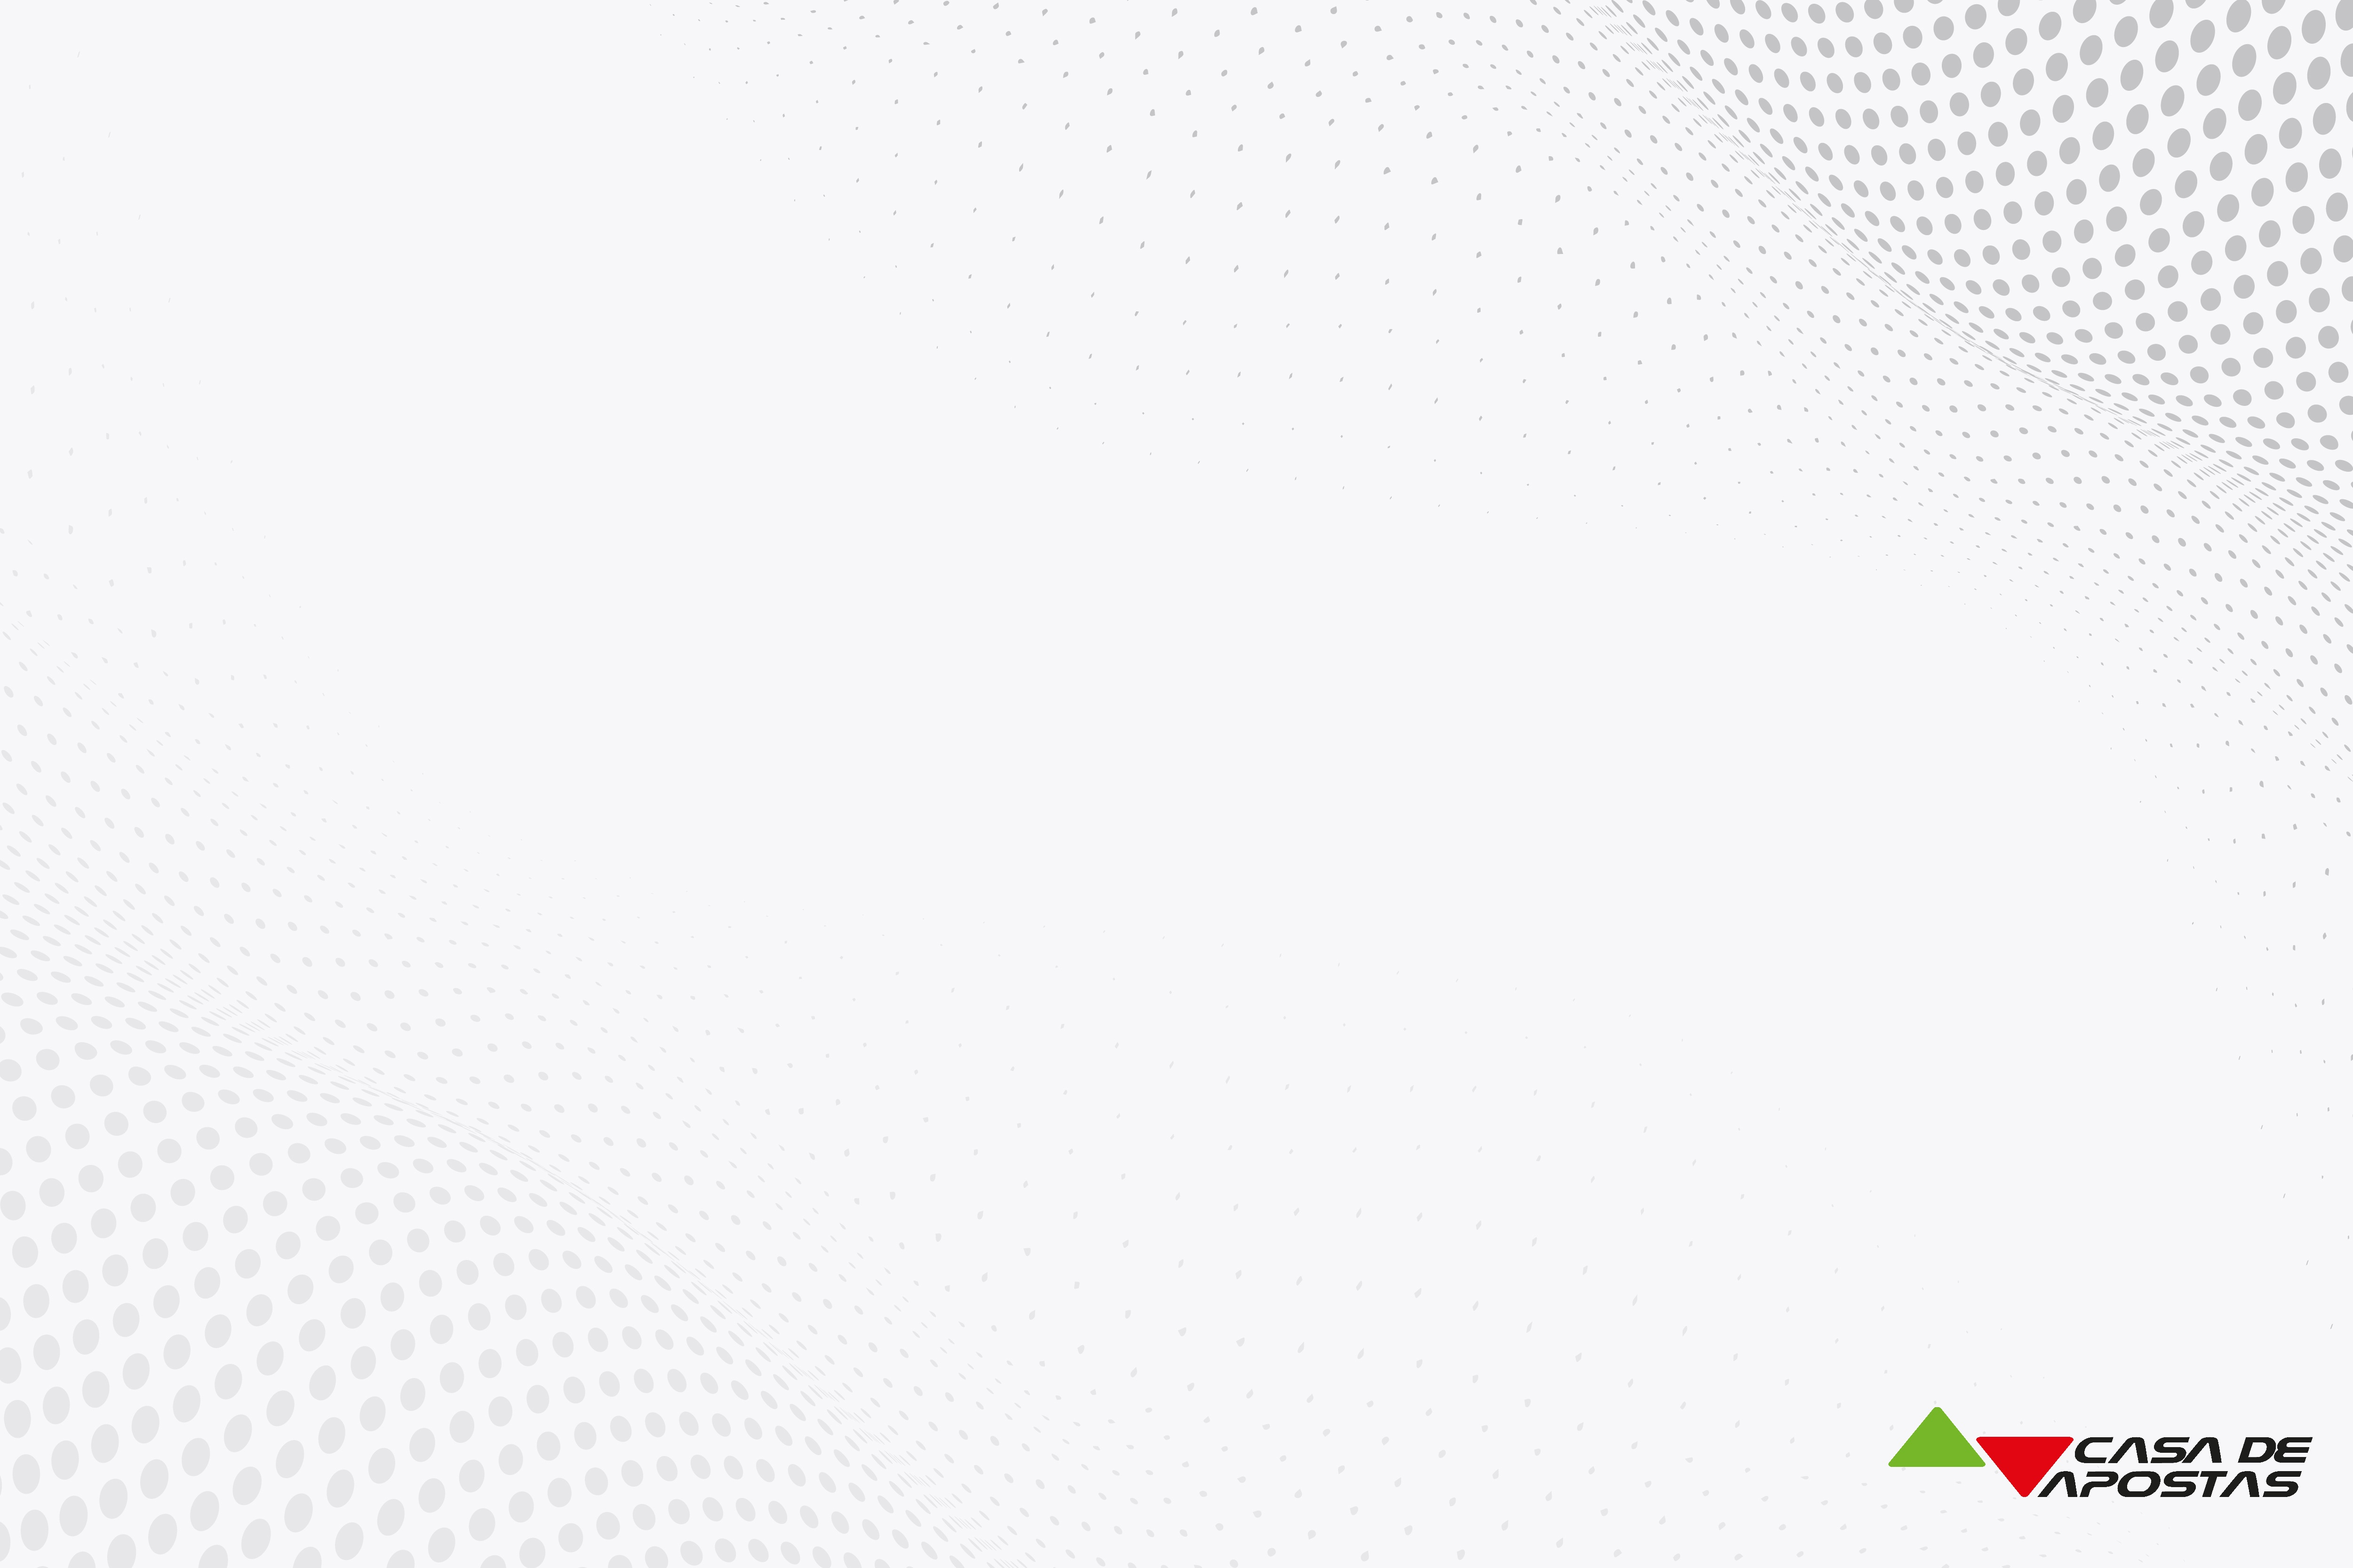
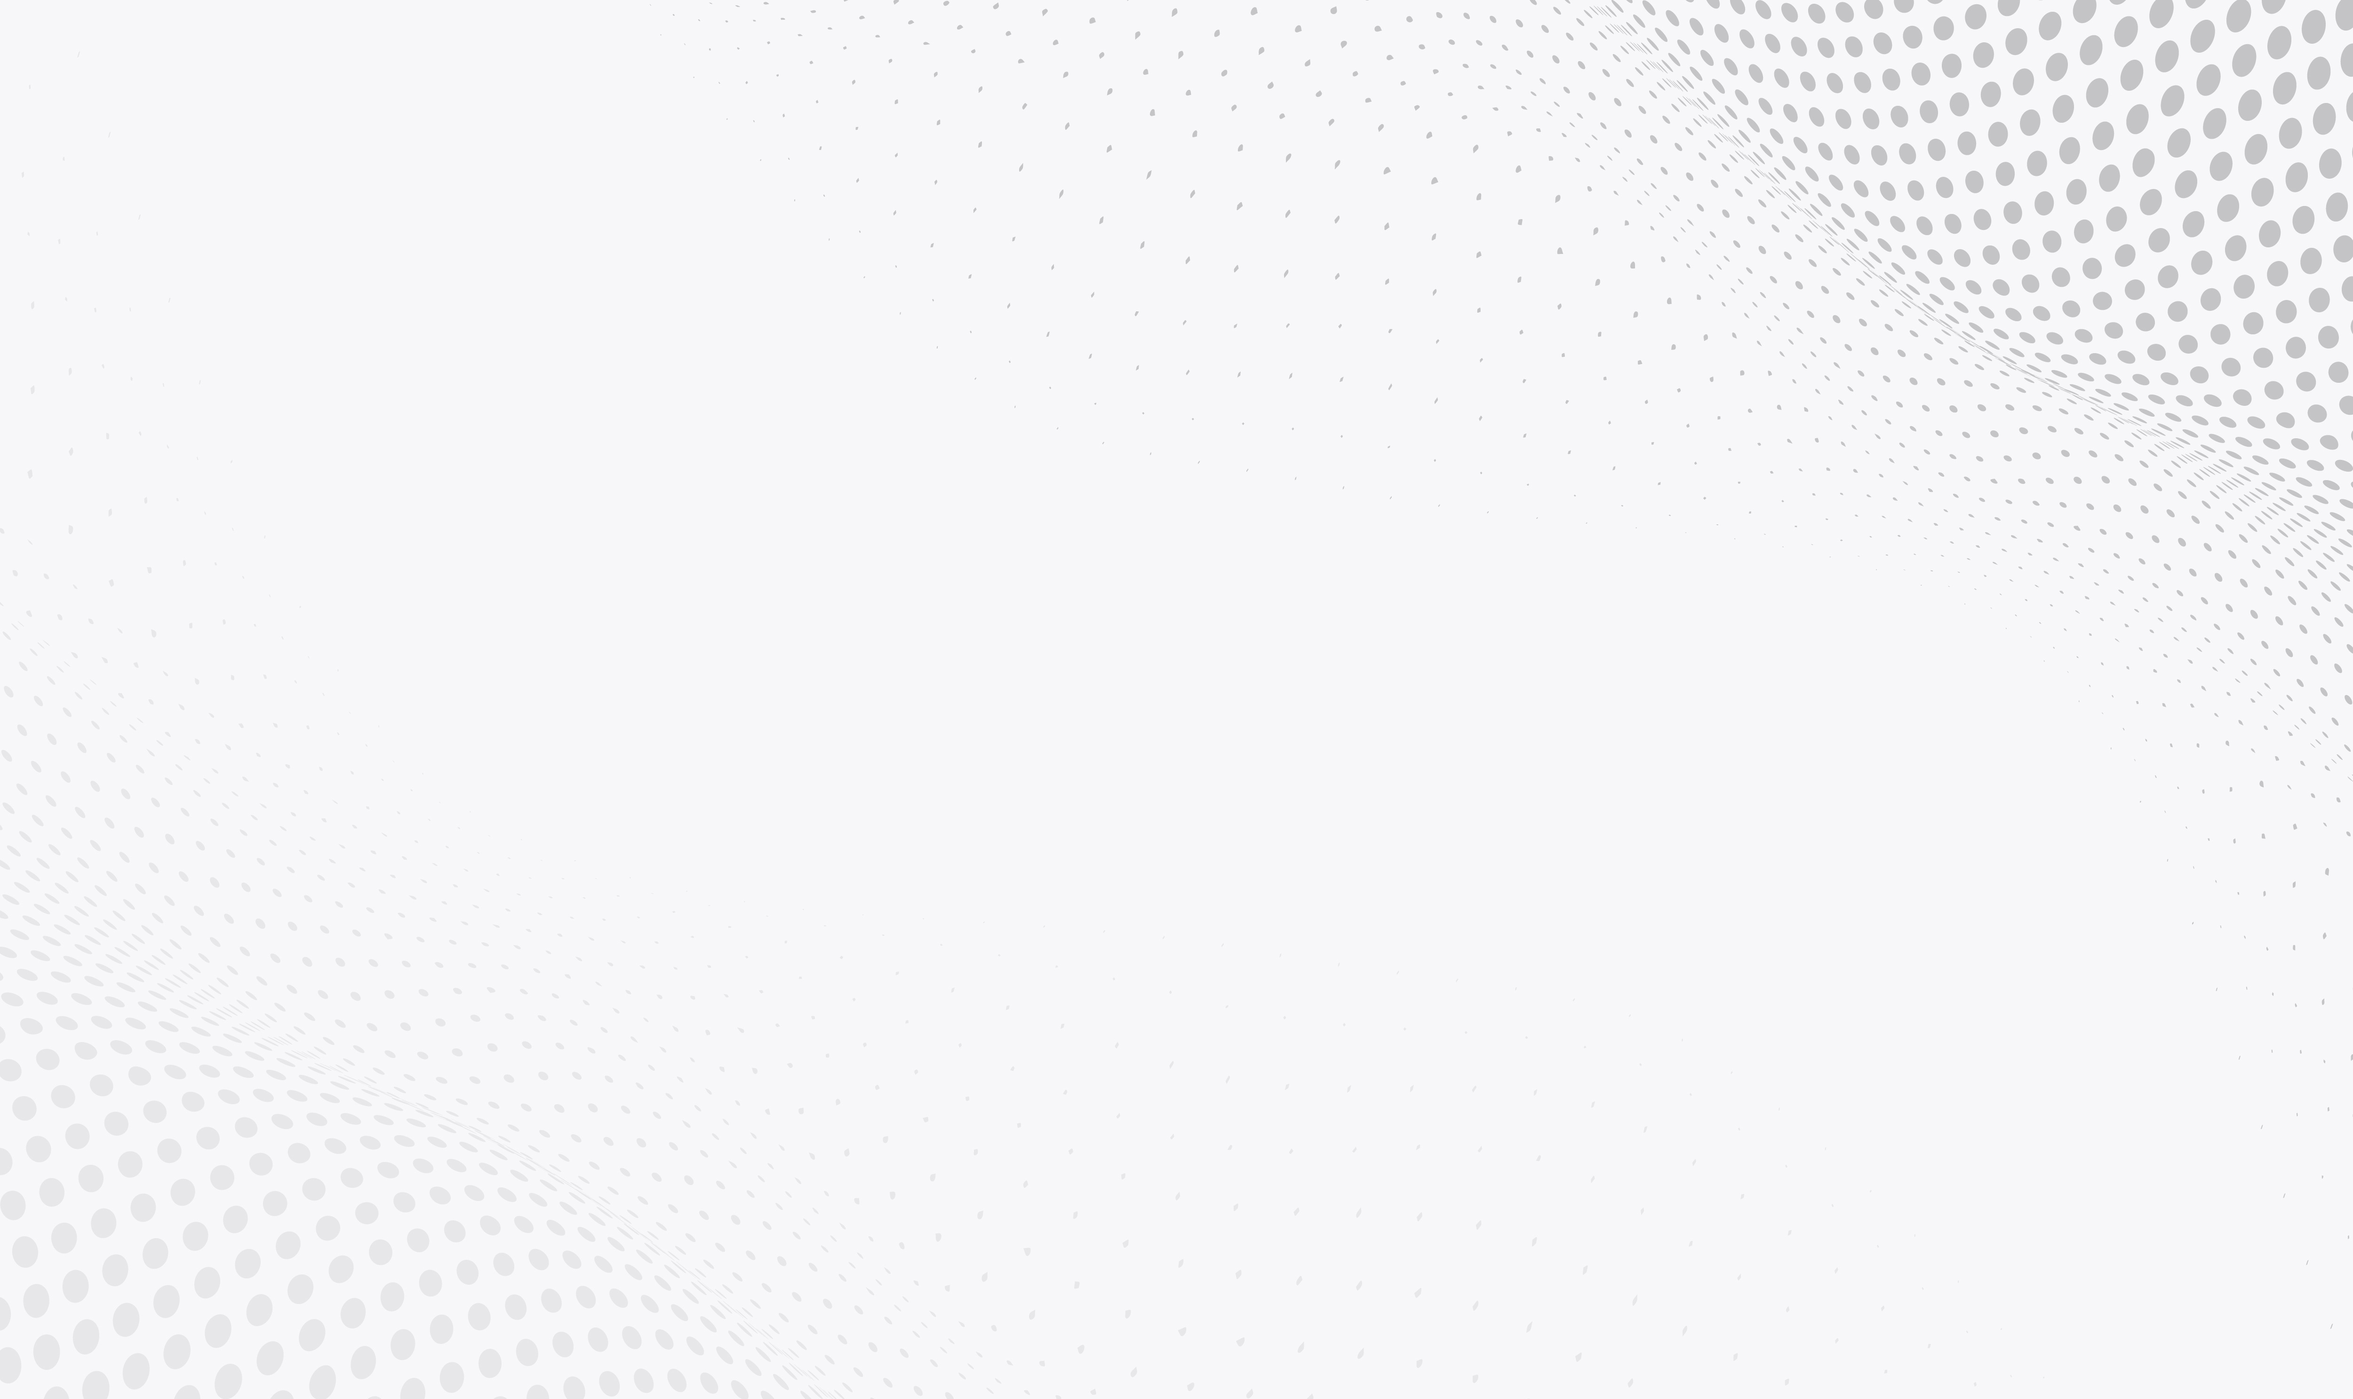
remoção de icones para video

Changed region(s): [[0.6551, 0.0, 1.0, 0.5257], [0.811, 0.8968, 0.9982, 0.9587]]

diff --git a/src/App.tsx b/src/App.tsx
@@ -4,8 +4,7 @@ import Auth from './components/Auth/Auth';
 import ClientList from './components/Clientes/ClientList';
 import ContactList from './components/Contatos/ContactList';
 import Reports from './components/Relatorio/Reports';
-import { Users, UserCircle, FileText, LogOut } from 'lucide-react';
-import logo from './assets/logo.png';
+import { Users, UserCircle, FileText, LogOut, Calendar } from 'lucide-react';
 
 type TabType = 'clients' | 'contacts' | 'reports';
 
@@ -34,7 +33,9 @@ function Dashboard() {
           <div className="flex items-center justify-between h-16">
             <div className="flex items-center gap-3">
               <div className="bg-blue-600 p-2 rounded-lg">
-                <img src={logo} alt="Logo" className="w-6 h-6 object-contain" />
+                <div className="flex items-center justify-center">
+                  <Calendar className="w-6 h-6 text-white" />
+                </div>
               </div>
               <h1 className="text-xl font-bold text-gray-800">Sistema de Cadastro</h1>
             </div>

diff --git a/src/components/Auth/Auth.tsx b/src/components/Auth/Auth.tsx
@@ -1,7 +1,7 @@
 import { useState } from 'react';
 import { useAuth } from '../../contexts/AuthContext';
-import { LogIn } from 'lucide-react';
-import logo from '../../assets/logo.png';
+import { LogIn, Calendar } from 'lucide-react';
+// import logo from '../../assets/logo.png';
 
 export default function Auth() {
   const [isLogin, setIsLogin] = useState(true);
@@ -35,8 +35,8 @@ export default function Auth() {
     <div className="min-h-screen app-bg flex items-center justify-center p-4">
       <div className="bg-white rounded-2xl shadow-xl w-full max-w-md p-8">
         <div className="flex items-center justify-center mb-8">
-          <div className="bg-blue-600 p-3 rounded-xl">
-            <img src={logo} alt="Logo" className="w-12 h-12 object-contain" />
+          <div className="bg-blue-600 p-3 rounded-xl flex items-center justify-center">
+            <Calendar className="w-12 h-12 text-white" />
           </div>
         </div>
 
